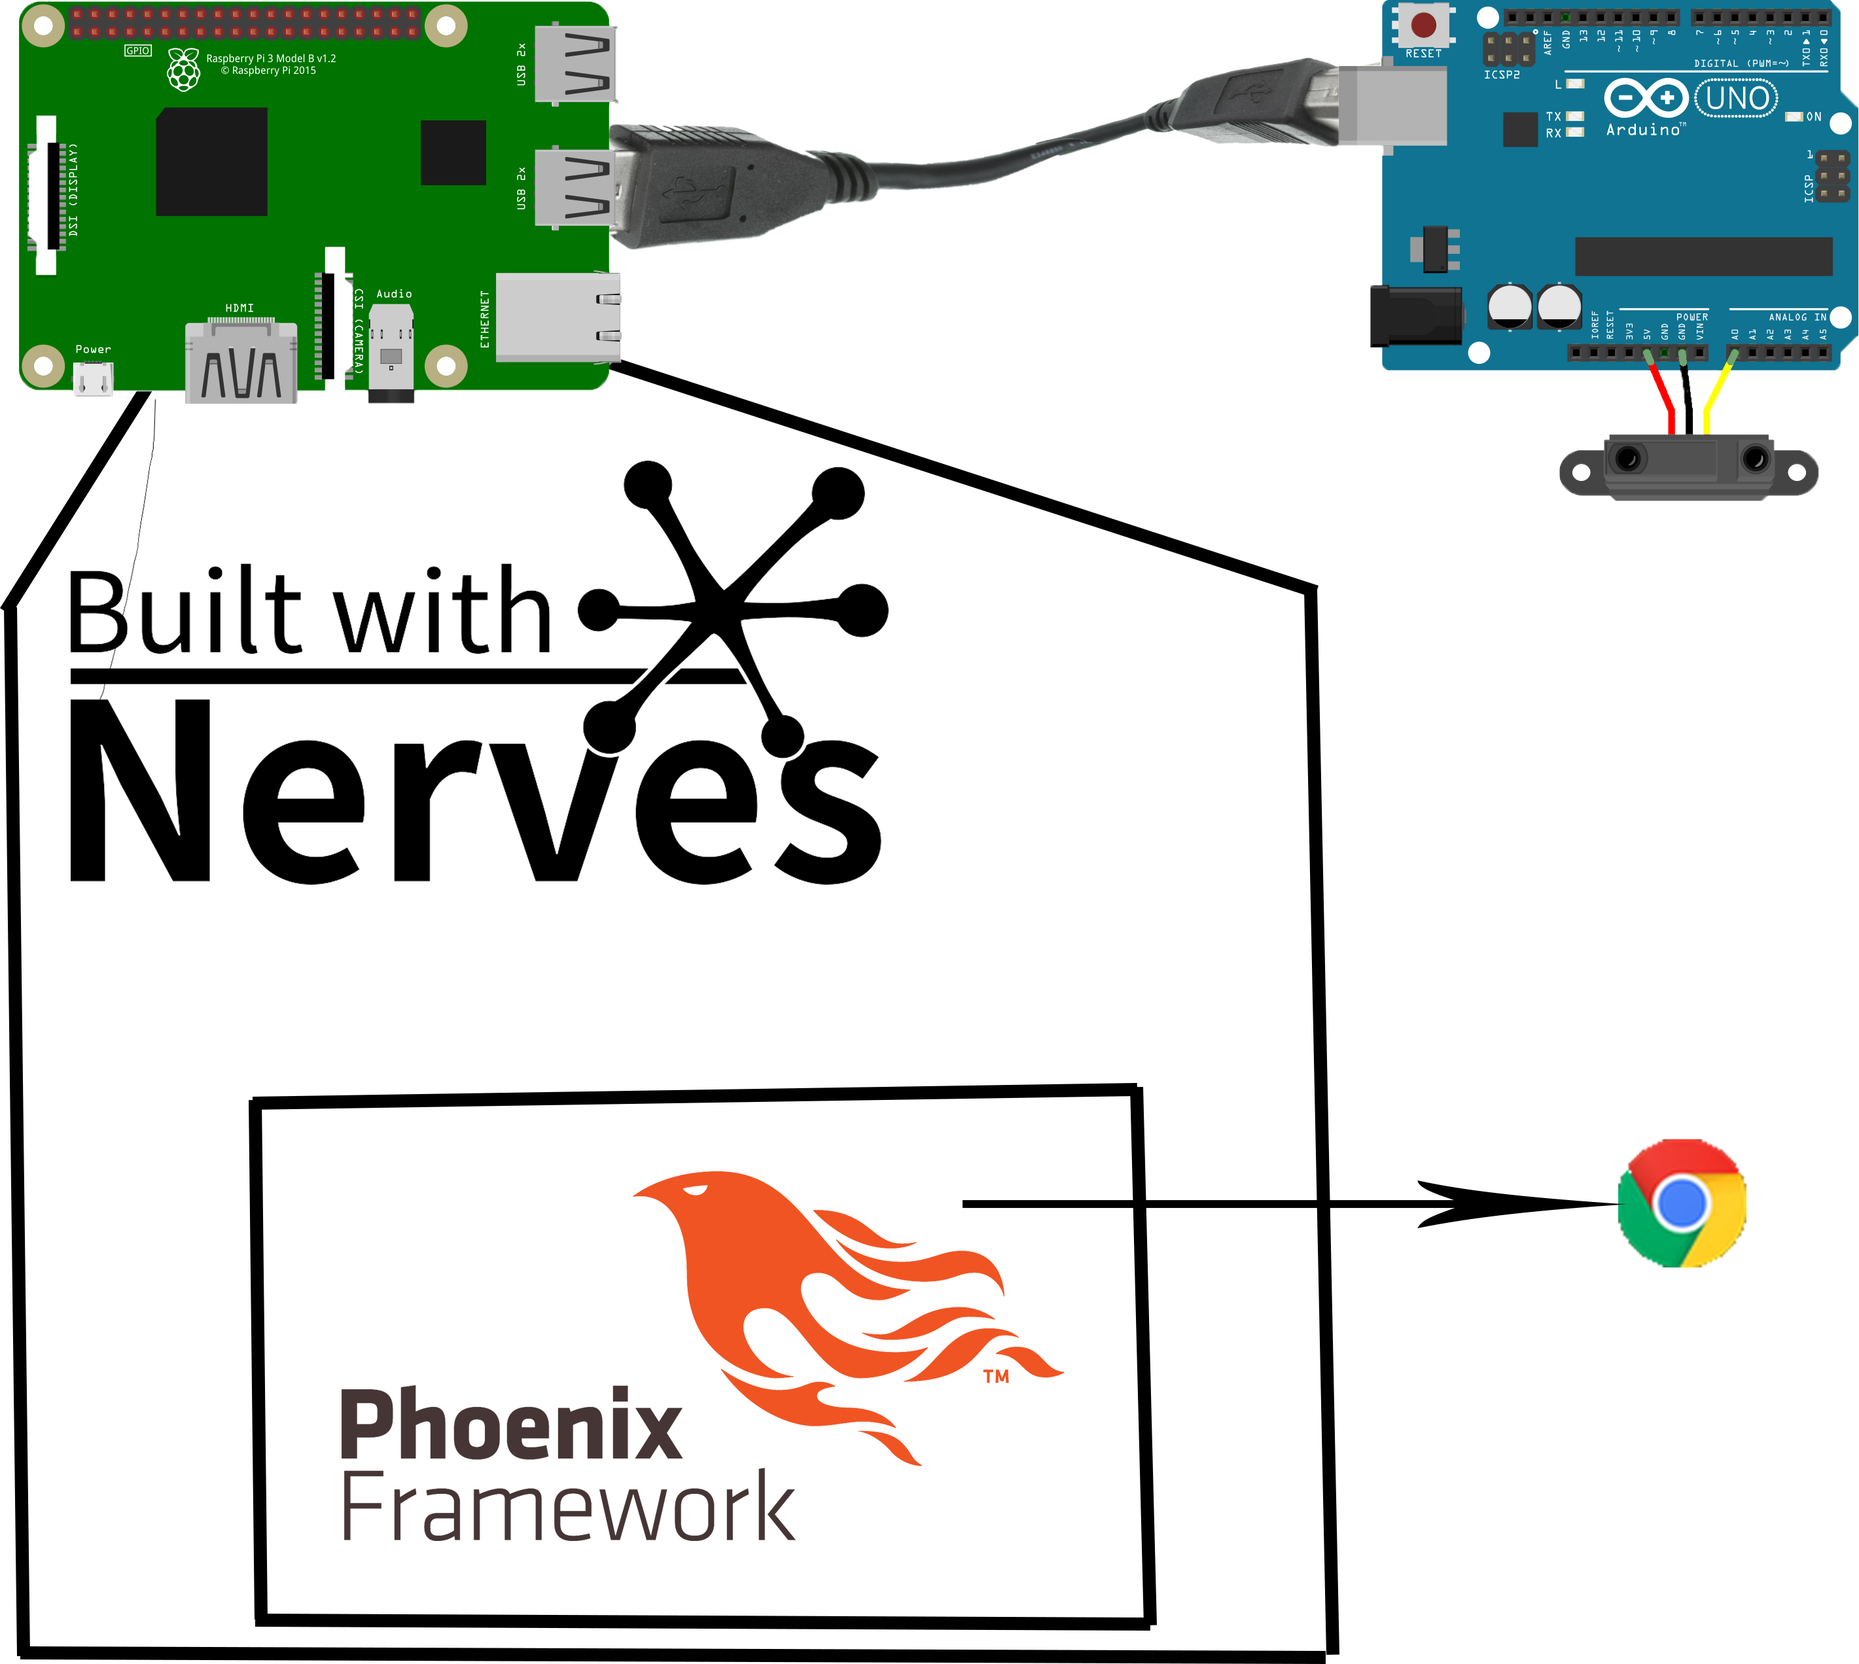
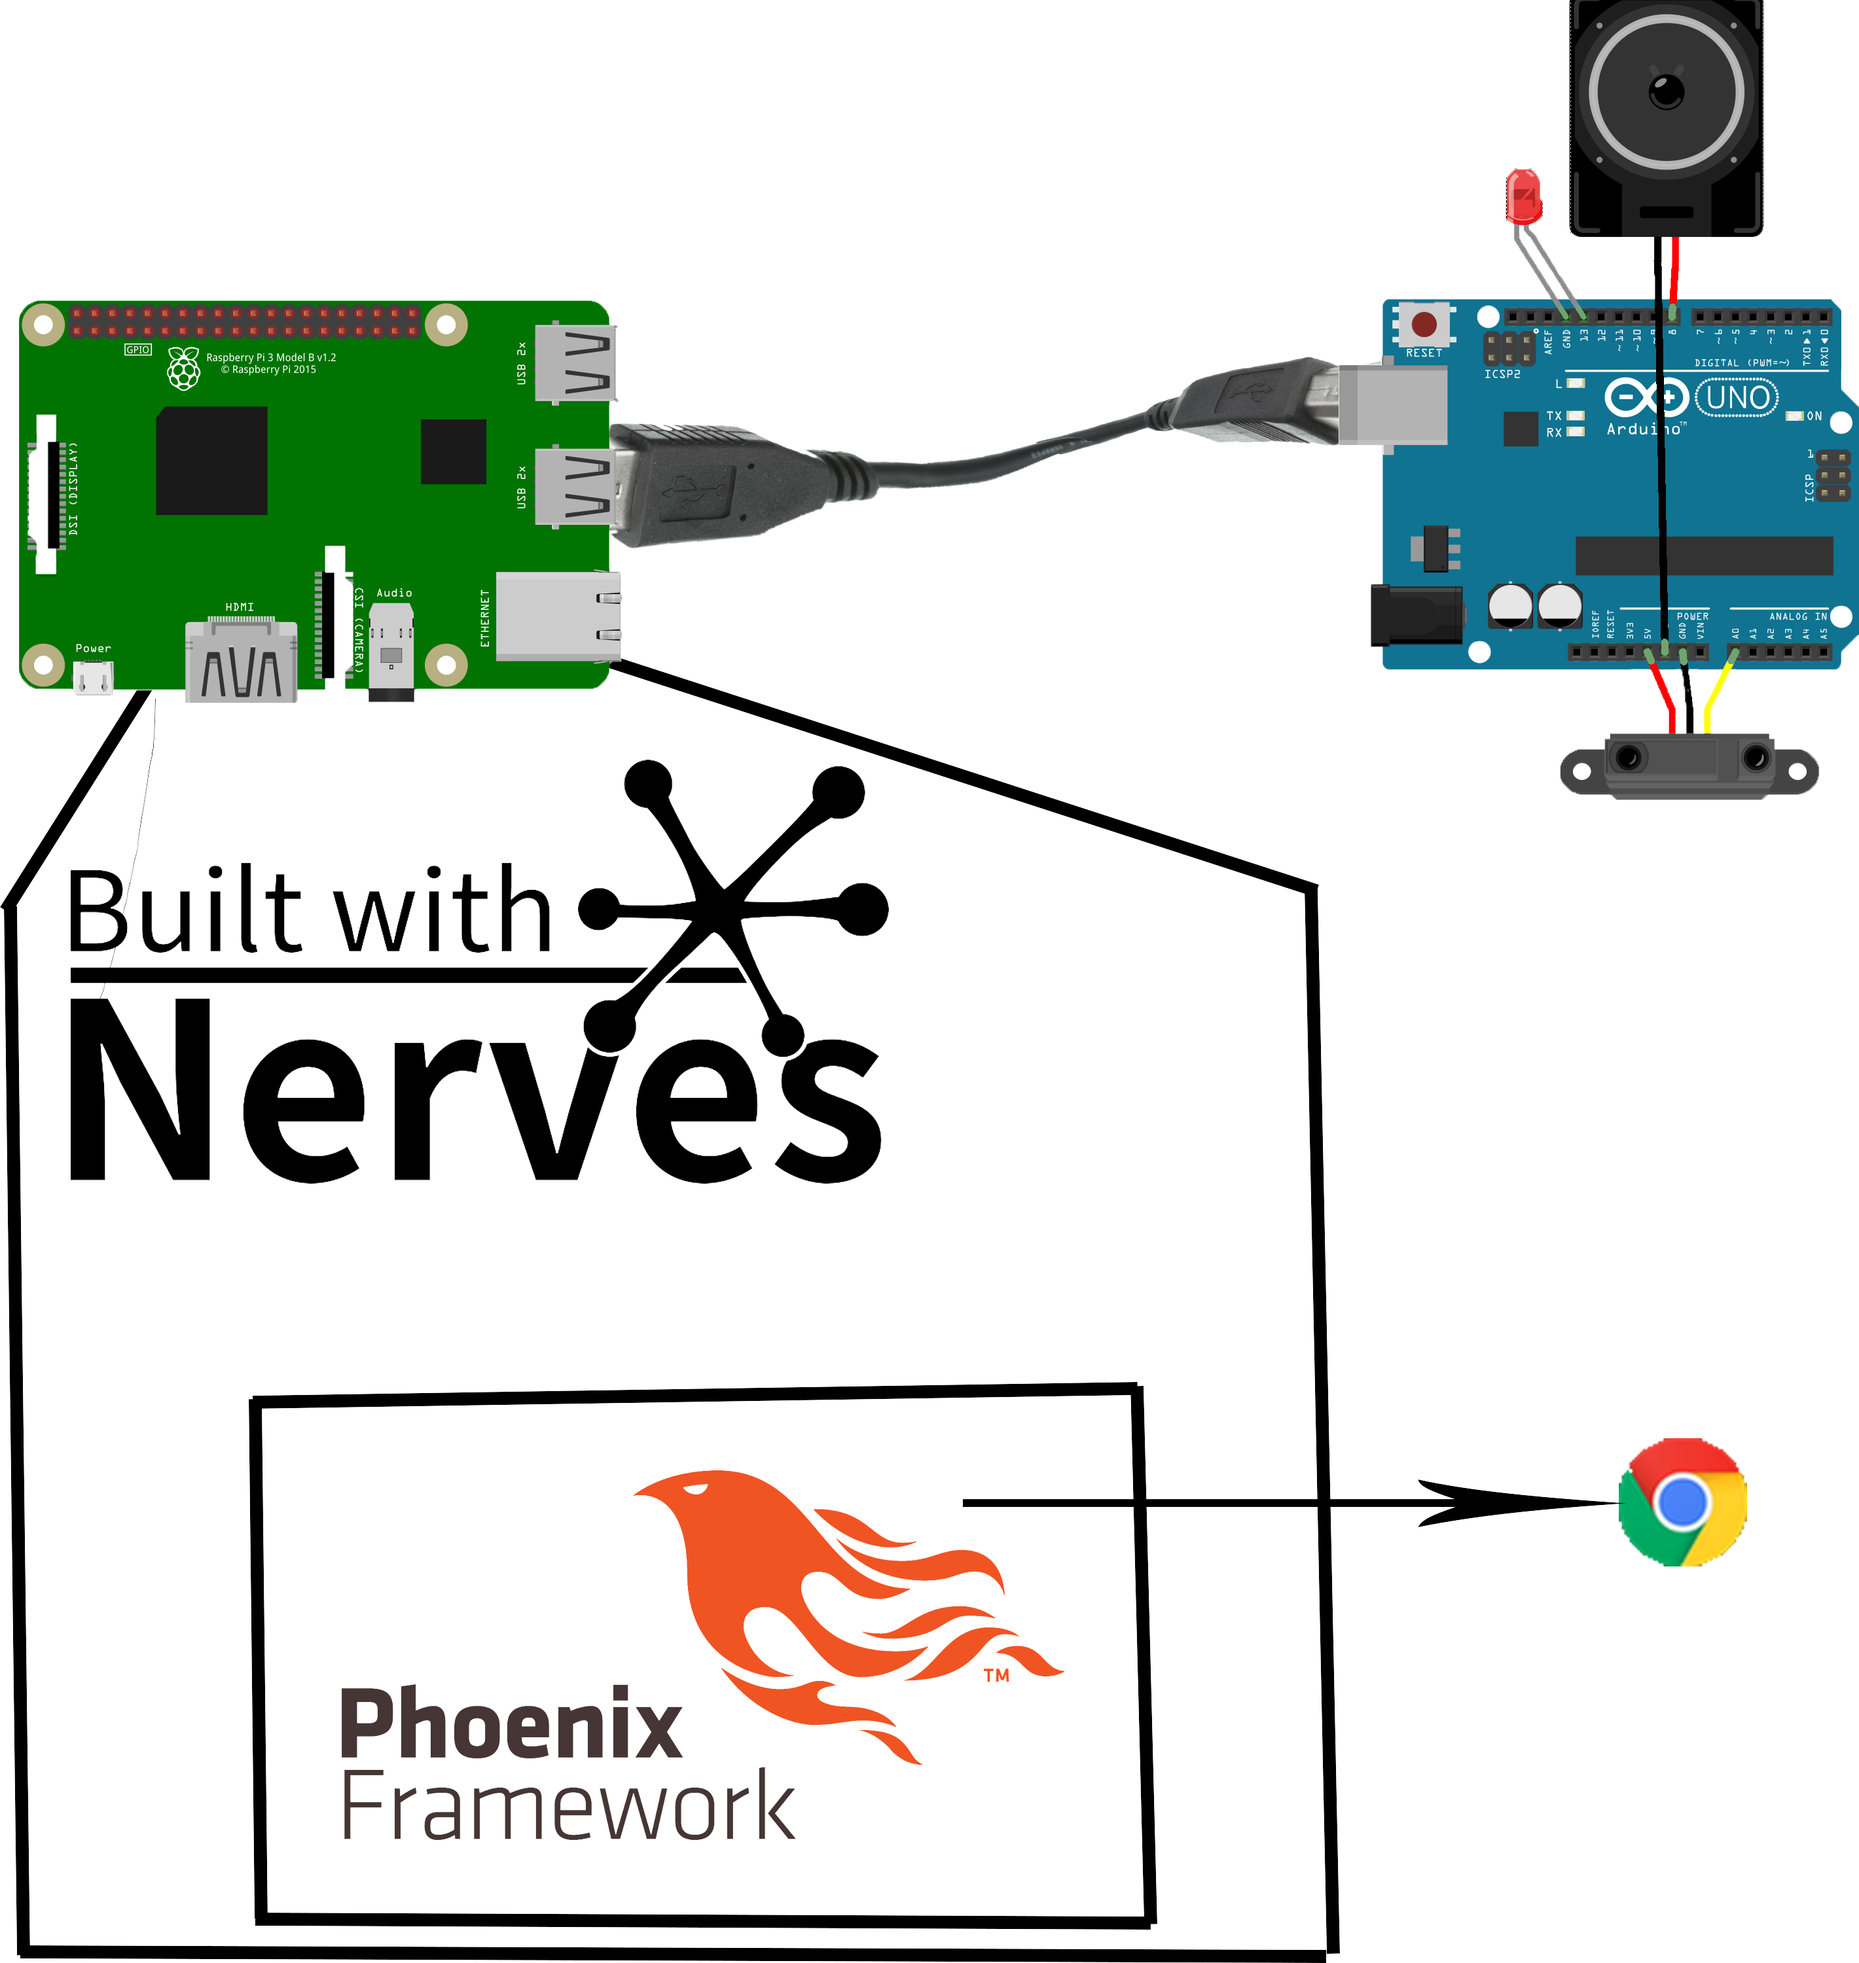
Added small changes

diff --git a/projects/Security_Project/Security_Project.html b/projects/Security_Project/Security_Project.html
@@ -1,4 +1,4 @@
-<!DOCTYPE html>
+<!DOCTYPE html>
 <!--[if lt IE 7 ]><html class="ie ie6" lang="en"> <![endif]-->
 <!--[if IE 7 ]><html class="ie ie7" lang="en"> <![endif]-->
 <!--[if IE 8 ]><html class="ie ie8" lang="en"> <![endif]-->
@@ -99,6 +99,8 @@
               <h3>It came to our minds that a proximity sensor, placed next to the door of our room, would give us info whenever the door is opened.</br></h3>
               <h2>For hardware, we used:</br></h2>
               <h3>* A proximity sensor for an Arduino Board;</br></h3>
+              <h3>* An LED for the Arduino;</br></h3>
+              <h3>* A speaker for the Arduino;</br></h3>
               <h3>* An <a href = 'https://store.arduino.cc/arduino-uno-rev3'> Arduino Uno </a>for taking the input from the sensor;</br></h3>
               <h3>* A USB cable that comes with the Arduino, to send the information through the serial;</br></h3>
               <h3>* A <a href = 'https://www.raspberrypi.org/products/'> Raspberry Pi </a>that gets the information from the Arduino;</br></h3>
@@ -107,7 +109,7 @@
               <h3>* <a href = 'https://www.arduino.cc/en/Main/Software'> Arduino IDE </a>to set up what the Arduino does;</br></h3>
               <h3>* <a href = 'https://www.erlang.org/downloads'> Erlang </a>in order for Elixir to work;</br></h3>
               <h3>* <a href = 'https://elixir-lang.org/install.html'> Elixir </a>to make the function that gets the Arduino input in the Raspberry and sends it to the server;</br></h3>
-              <h3>* Nerves for embedded programming;</br></h3>
+              <h3>* <a href= 'http://nerves-project.org/'> Nerves </a>for embedded programming;</br></h3>
               <h3>* <a href = 'https://hexdocs.pm/phoenix/installation.html'> Phoenix Framework</a> for the server;</br></h3>
               <h3>* <a href = 'https://www.javascript.com/'>JavaScript </a>for the browser.</br></h3>
               <h3>After establishing the components, a diagram was made which would later be used during the assembly of the project.</br></h3>
@@ -115,6 +117,7 @@
               </br>
               <h3>After making sure all the software is correctly installed, part that got tricky for a beginner, the first thing we did is use the Arduino IDE to develop a code in C which sets the corresponding pins to receive the info from the sensor. After that, we added to our code a part that sends the information through the USB serial, which will later be useful</br></h3>
               <h3>Then we configured the Raspberry Pi, and by that we mean preparing it to work as a server, using Nerves and the Phoenix Framework.</br></h3>
+              <h3>The work on this project is still in progress, and updates to this page will be applied.</br></h3>
               </br>
               <h3>The project has a README file on GitHub, where the source code is located as well, in order to enable other team members and highschool students replicate it too.</br></h3>
 
